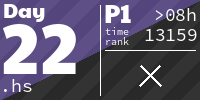
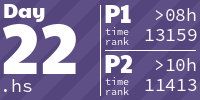
2024, day 22, slow

diff --git a/README.md b/README.md
@@ -10,10 +10,10 @@ according to r/adventofcode when my own solution was much less efficient.
 
 <!-- AOC TILES BEGIN -->
 <h1 align="center">
-  Advent of Code - 493/494 ⭐
+  Advent of Code - 494/494 ⭐
 </h1>
 <h1 align="center">
-  2024 - 43 ⭐ - Haskell
+  2024 - 44 ⭐ - Haskell
 </h1>
 <a href="2024/days/Day1.hs">
   <img src=".aoc_tiles/tiles/2024/01.png" width="161px">
